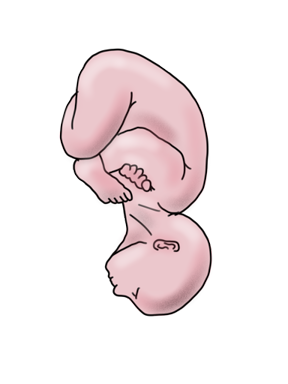
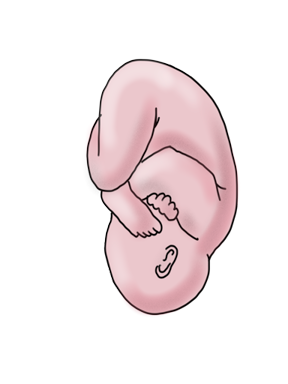
schema3 et schema4 ont 3 inclinaisons et image schema4 partiellement remplies

Changed region(s): [[0.1875, 0.125, 0.8438, 0.8125], [0.5, 0.7188, 0.7188, 0.8438]]

diff --git a/code/frontend/src/Components/Schema4.jsx b/code/frontend/src/Components/Schema4.jsx
@@ -6,6 +6,7 @@ import { ContextReponses } from "../Pages/User/exercice";
 export function Schema4({ display, type }) {
   const [listeSchema4Pos1, setListeSchema4Pos1] = useState([]);
   const [listeSchema4Pos2, setListeSchema4Pos2] = useState([]);
+  const [listeSchema4Pos3, setListeSchema4Pos3] = useState([]);
   const [error, setError] = useState(null);
   const [index, setIndex] = useState(0);
   const [listeSchema4selectionnee, setListeSchema4selectionnee] = useState([]);
@@ -25,7 +26,7 @@ export function Schema4({ display, type }) {
           enonce?.representation !== "Schéma en vue transversale" &&
           !enonce?.retour
         ) {
-          const promises = [1, 2].map((i) =>
+          const promises = [1, 2, 3].map((i) =>
             fetch(`http://localhost:4000/schema4/getByIncl/${i}`, {
               method: "GET",
               headers: { "Content-Type": "application/json" },
@@ -38,13 +39,14 @@ export function Schema4({ display, type }) {
               return response.json();
             })
           );
-          const [data1, data2] = await Promise.all(promises);
-          if (data1.status || data2.status) {
-            setError(data1.status || data2.status);
+          const [data1, data2, data3] = await Promise.all(promises);
+          if (data1.status || data2.status || data3.status) {
+            setError(data1.status || data2.status || data3.status);
             return;
           }
           setListeSchema4Pos1(data1.Schemas4);
           setListeSchema4Pos2(data2.Schemas4);
+          setListeSchema4Pos3(data3.Schemas4);
           setListeSchema4selectionnee(data1.Schemas4);
         } else if (enonce?.retour && type === "reponse") {
           if (!enonce.answersValues) {
@@ -136,7 +138,7 @@ export function Schema4({ display, type }) {
   const inclinaisonSuivante = () => {
     setListeSchema4selectionnee((prevList) => {
       const newList =
-        prevList === listeSchema4Pos1 ? listeSchema4Pos2 : listeSchema4Pos1;
+        prevList === listeSchema4Pos1 ? listeSchema4Pos2 : (prevList === listeSchema4Pos2 ? listeSchema4Pos3 : listeSchema4Pos1);
       if (index >= newList.length || index < 0) {
         setIndex(0);
       }
@@ -147,7 +149,7 @@ export function Schema4({ display, type }) {
   const inclinaisonPrecedante = () => {
     setListeSchema4selectionnee((prevList) => {
       const newList =
-        prevList === listeSchema4Pos1 ? listeSchema4Pos2 : listeSchema4Pos1;
+        prevList === listeSchema4Pos1 ? listeSchema4Pos3 : (prevList === listeSchema4Pos2 ? listeSchema4Pos1 : listeSchema4Pos2);
       if (index >= newList.length || index < 0) {
         setIndex(0);
       }
@@ -176,13 +178,13 @@ export function Schema4({ display, type }) {
             <img
               src="src/images/schema4/bassinSchema4.PNG"
               alt="Bassin"
-              className="absolute h-52"
+              className="absolute h-52 -rotate-45"
             />
             {enonceSchema4 && (
               <img
                 src={enonceSchema4.image_path}
                 alt={enonceSchema4.image_name}
-                className="absolute h-52"
+                className="absolute h-52 -rotate-45"
               />
             )}
           </div>
@@ -201,13 +203,13 @@ export function Schema4({ display, type }) {
             <img
               src="src/images/schema4/bassinSchema4.PNG"
               alt="Bassin"
-              className="absolute h-52"
+              className="absolute h-52 -rotate-45"
             />
             {enonce.answersValues.reponseSchema4.image_path && (
               <img
                 src={enonce.answersValues.reponseSchema4.image_path}
                 alt={enonce.answersValues.reponseSchema4.image_name}
-                className="absolute h-52"
+                className="absolute h-52 -rotate-45"
               />
             )}
           </div>
@@ -238,13 +240,13 @@ export function Schema4({ display, type }) {
             <img
               src="src/images/schema4/bassinSchema4.PNG"
               alt="Bassin"
-              className="absolute h-72"
+              className="absolute h-72 -rotate-45"
             />
             {listeSchema4selectionnee[index]?.image_path && (
               <img
                 src={listeSchema4selectionnee[index].image_path}
                 alt={listeSchema4selectionnee[index].image_name}
-                className="absolute h-72"
+                className="absolute h-72 -rotate-45"
               />
             )}
           </div>

diff --git a/code/frontend/src/Components/Schema3.jsx b/code/frontend/src/Components/Schema3.jsx
@@ -6,6 +6,7 @@ import { ContextReponses } from "../Pages/User/exercice";
 export function Schema3({ display, type }) {
   const [listeSchema3Pos1, setListeSchema3Pos1] = useState([]);
   const [listeSchema3Pos2, setListeSchema3Pos2] = useState([]);
+  const [listeSchema3Pos3, setListeSchema3Pos3] = useState([]);
   const [error, setError] = useState(null);
   const [index, setIndex] = useState(0);
   const [listeSchema3selectionnee, setListeSchema3selectionnee] = useState([]);
@@ -25,7 +26,7 @@ export function Schema3({ display, type }) {
           enonce?.representation !== "Schéma en vue antérieure" &&
           !enonce?.retour
         ) {
-          const promises = [1, 2].map((i) =>
+          const promises = [1, 2, 3].map((i) =>
             fetch(`http://localhost:4000/schema3/getByIncl/${i}`, {
               method: "GET",
               headers: { "Content-Type": "application/json" },
@@ -38,13 +39,14 @@ export function Schema3({ display, type }) {
               return response.json();
             })
           );
-          const [data1, data2] = await Promise.all(promises);
-          if (data1.status || data2.status) {
-            setError(data1.status || data2.status);
+          const [data1, data2, data3] = await Promise.all(promises);
+          if (data1.status || data2.status || data3.status) {
+            setError(data1.status || data2.status || data3.status);
             return;
           }
           setListeSchema3Pos1(data1.Schemas3);
           setListeSchema3Pos2(data2.Schemas3);
+          setListeSchema3Pos3(data3.Schemas3);
           setListeSchema3selectionnee(data1.Schemas3);
         } else if (enonce?.retour && type === "reponse") {
           if (!enonce.answersValues) {
@@ -136,7 +138,7 @@ export function Schema3({ display, type }) {
   const inclinaisonSuivante = () => {
     setListeSchema3selectionnee((prevList) => {
       const newList =
-        prevList === listeSchema3Pos1 ? listeSchema3Pos2 : listeSchema3Pos1;
+        prevList === listeSchema3Pos1 ? listeSchema3Pos2 : (prevList === listeSchema3Pos2 ? listeSchema3Pos3 : listeSchema3Pos1);
       if (index >= newList.length || index < 0) {
         setIndex(0);
       }
@@ -147,7 +149,7 @@ export function Schema3({ display, type }) {
   const inclinaisonPrecedante = () => {
     setListeSchema3selectionnee((prevList) => {
       const newList =
-        prevList === listeSchema3Pos1 ? listeSchema3Pos2 : listeSchema3Pos1;
+        prevList === listeSchema3Pos1 ? listeSchema3Pos3 : (prevList === listeSchema3Pos2 ? listeSchema3Pos1 : listeSchema3Pos2);
       if (index >= newList.length || index < 0) {
         setIndex(0);
       }
